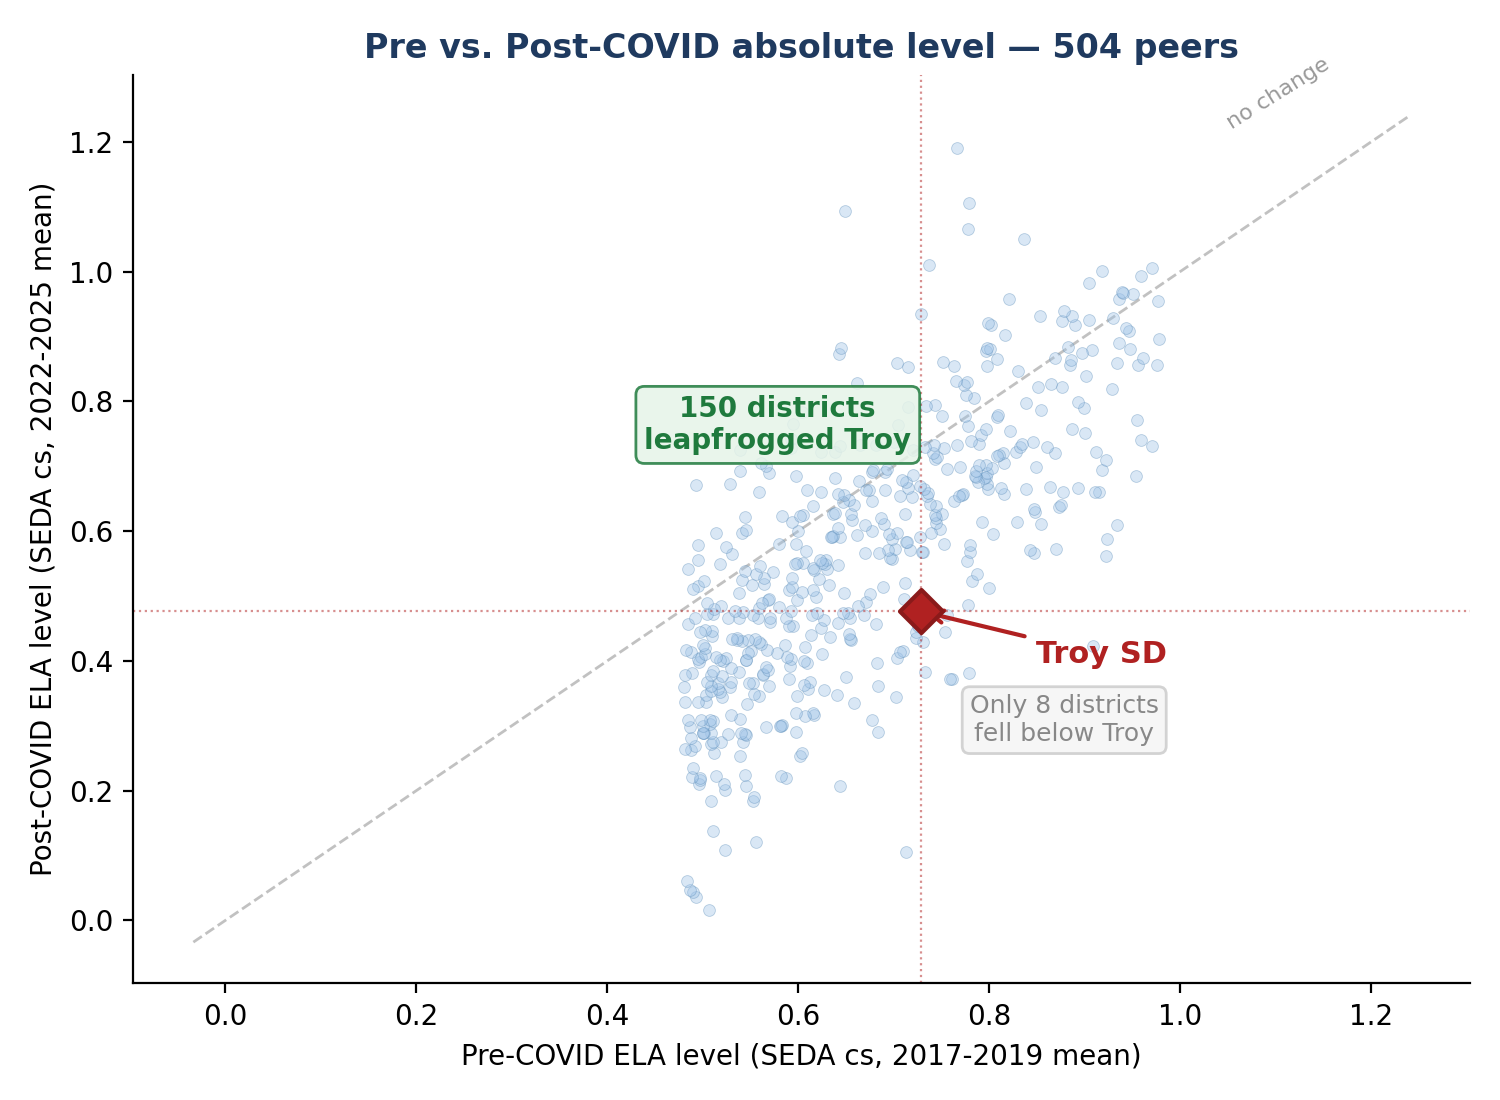
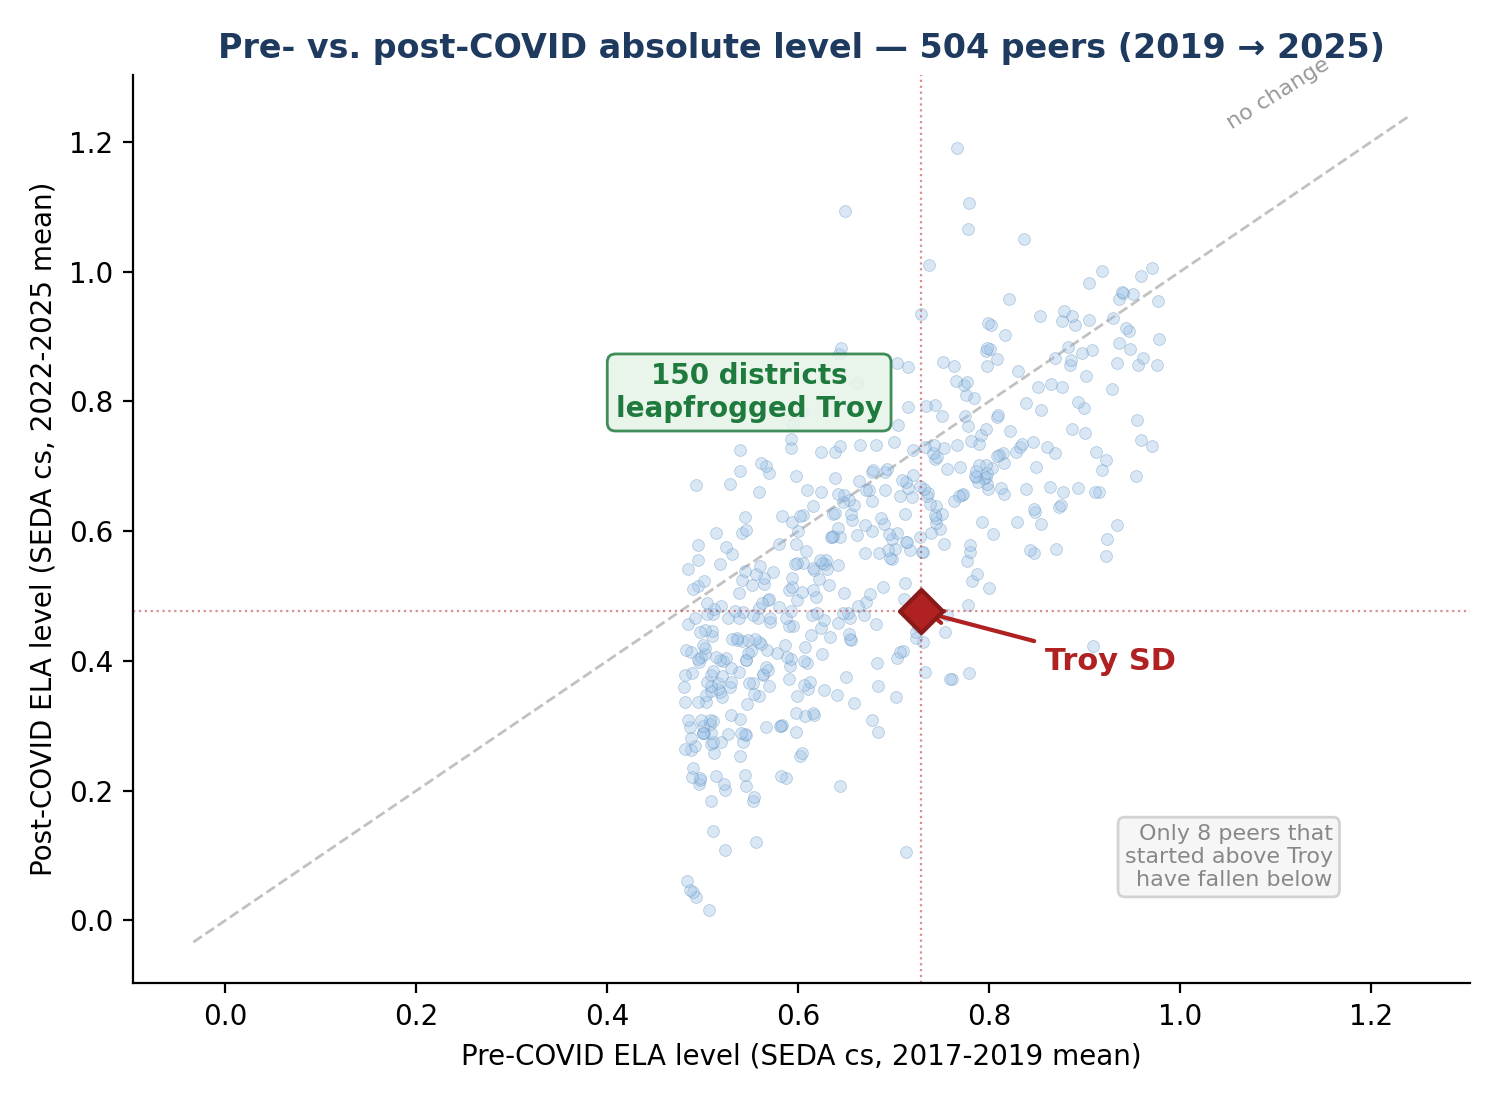
Fix leaderboard slide: relocate grey box, add rank clarification, add date range
Move 'Only 8 districts fell below Troy' annotation to bottom-right corner
of scatter plot. Add '2019 → 2025' to subtitle and chart title. Table
header now reads 'lower rank = higher performance' for clarity.

diff --git a/analysis/build_deck.py b/analysis/build_deck.py
@@ -1259,7 +1259,7 @@ footer(s, 24)
 # =================================================================
 s = prs.slides.add_slide(BLANK)
 title_bar(s, "Appendix — Troy dropped from top-third to bottom 40% on the ELA leaderboard",
-          "Absolute performance level among 504 peers — not just change, but where Troy sits now")
+          "2019 → 2025 absolute performance level among 504 peers — not just change, but where Troy sits now")
 
 # Left: scatter plot
 add_pic(s, f'{CHART_DIR}/chart_seda_scatter.png',
@@ -1272,7 +1272,7 @@ add_pic(s, f'{CHART_DIR}/chart_seda_rank_shift.png',
 # Bottom panel: subgroup table spanning full width
 add_rect(s, Inches(0.3), Inches(5.6), Inches(12.7), Inches(1.7), GRAY_LIGHT)
 add_text(s, Inches(0.5), Inches(5.65), Inches(12.0), Inches(0.3),
-         "Every subgroup: pre-COVID rank → post-COVID rank (among 504 level-matched peers, 1 = highest)",
+         "Every subgroup: pre-COVID rank → post-COVID rank among 504 level-matched peers  (lower rank = higher performance)",
          size=11, bold=True, color=TROY_BLUE)
 
 # Table header